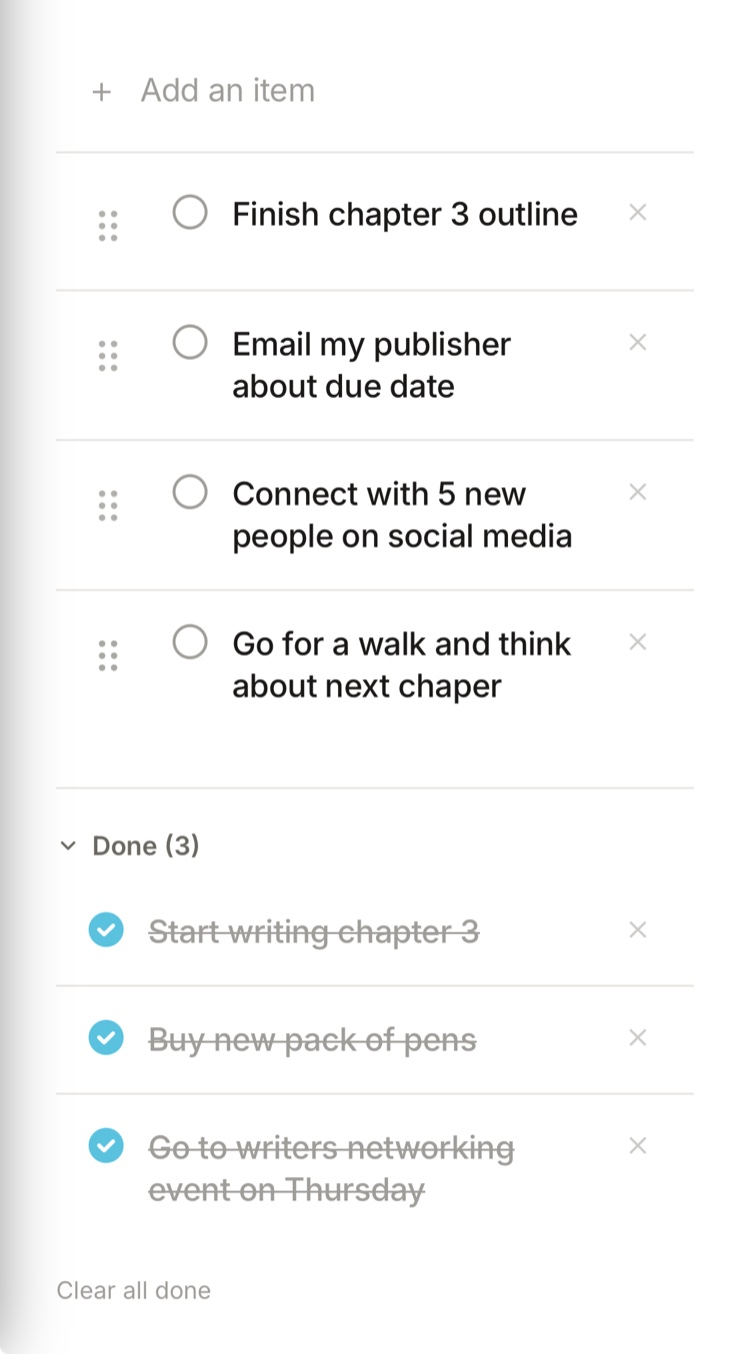
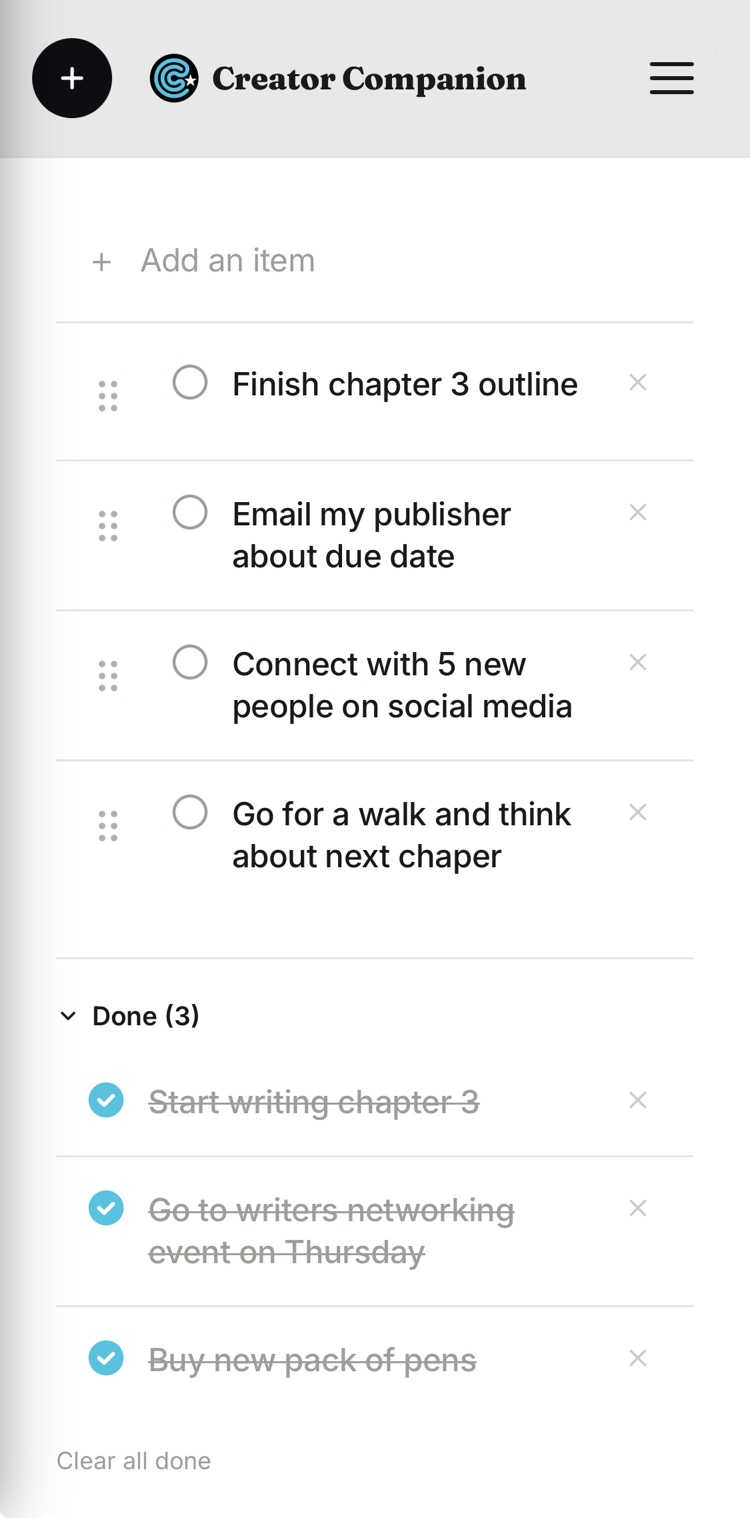
Marketing preview: new to-do screenshot + Section 4 → phone mockup
To-do (Section 3): replaced screenshot with the updated capture that
includes the Creator Companion iOS header bar — visual parity with
Sections 1 and 2.

Daily Spark (Section 4): swapped the custom .mock-spark-wrap card
design for the same phone mockup pattern as the other three sections
(real iOS screenshot of the in-app spark surface). All four feature
sections now share one mockup visual language.

diff --git a/marketing/preview.html b/marketing/preview.html
@@ -268,40 +268,17 @@
   </section>
 
   <!-- ── Section 4: Advice and Encouragement ──────────────────────────── -->
-  <!-- Reuses the spark-card mockup that previously lived in the
-       Daily Spark section. The mockup is genuinely a great visual
-       for this content — quote + takeaway is exactly what the
-       feature delivers — so it carries forward to the new section
-       framing. If we later swap the mockup for a real iPhone
-       screenshot of the in-app spark surface, replace the
-       .mock-spark-wrap with an <img>. -->
   <section class="feat-section feat-section--dark">
     <div class="container">
       <div class="feat feat--text-right">
 
-        <div class="feat__visual feat__visual--centered">
-          <div class="mock-spark-wrap">
-            <div class="mock-spark">
-              <div class="mock-spark__label">
-                <svg width="13" height="13" viewBox="0 0 24 24" fill="currentColor"><circle cx="12" cy="12" r="10"/><line x1="12" y1="8" x2="12" y2="12" stroke="white" stroke-width="2"/><line x1="12" y1="16" x2="12.01" y2="16" stroke="white" stroke-width="2"/></svg>
-                Daily Spark
-              </div>
-              <div class="mock-spark__category">Resistance &amp; Procrastination</div>
-              <blockquote class="mock-spark__quote">"The amateur believes he must first overcome his fear; then he can do his work. The professional knows that fear can never be overcome. He knows there is no such thing as a fearless warrior or a dread-free artist."</blockquote>
-              <div class="mock-spark__author">— Steven Pressfield, The War of Art</div>
-              <div class="mock-spark__takeaway">
-                <strong>Today's takeaway:</strong> Fear isn't a bug in your creative process. It's confirmation you're working on something that matters.
-              </div>
-              <div class="mock-spark__actions">
-                <button class="mock-spark__btn mock-spark__btn--fav">
-                  <svg width="16" height="16" viewBox="0 0 24 24" fill="currentColor" stroke="currentColor" stroke-width="2"><path d="M20.84 4.61a5.5 5.5 0 0 0-7.78 0L12 5.67l-1.06-1.06a5.5 5.5 0 0 0-7.78 7.78l1.06 1.06L12 21.23l7.78-7.78 1.06-1.06a5.5 5.5 0 0 0 0-7.78z"/></svg>
-                  Saved
-                </button>
-                <button class="mock-spark__btn">Start writing →</button>
-              </div>
+        <div class="feat__visual">
+          <!-- Phone mockup: daily spark (image) -->
+          <div class="mock-phone" style="--mock-edge: url('images/spark-edge.png')">
+            <div class="mock-phone__notch"></div>
+            <div class="mock-phone__screen mock-phone__screen--img">
+              <img src="images/spark-mockup.jpg" alt="Creator Companion daily spark screen on mobile" class="mock-phone__img">
             </div>
-            <!-- Second card peeking behind -->
-            <div class="mock-spark mock-spark--behind"></div>
           </div>
         </div>
 